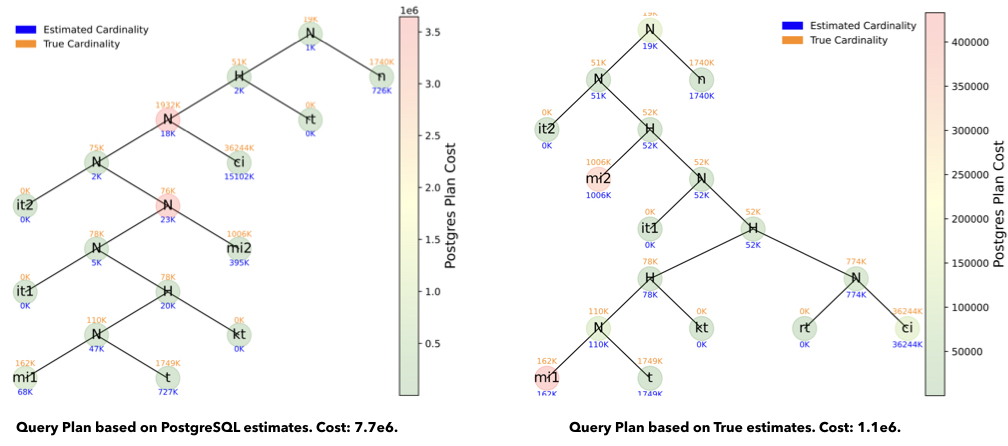
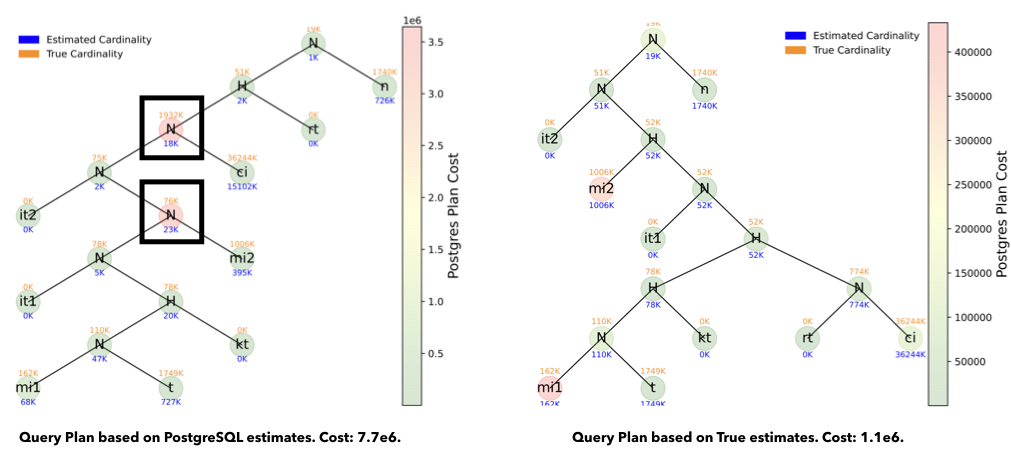
updates to ceb

diff --git a/_posts/2021-09-19-cardinality-estimation-benchmark.md b/_posts/2021-09-19-cardinality-estimation-benchmark.md
@@ -8,7 +8,7 @@ title: "Cardinality Estimation Benchmark"
 
 There has been a lot of interest in using ML for cardinality estimation. The motivating application is often query optimization: when searching for the best execution plan, a query optimizer needs to estimate intermediate result sizes. In the most simplified setting, a better query plan may need to process smaller sized intermediate results, thereby utilizing fewer resources, and executing faster. Several approaches have shown that one can consistently outperform DBMS estimators, often by orders of magnitude in terms of average estimation accuracy. However, improving estimation accuracy may not necessarily improve an optimizer's final query plan, as highlighted in the following simple example[^estimation_plan_quality].
 
-![Plan Cost Intuition](/assets/ceb/CEB-blog-intuition.png)
+![Plan Cost Intuition](/assets/ceb/ceb-blog-intuition.jpeg)
 
 We utilize a novel programmatic templating scheme[^templates] to generate over 15K challenging queries on two databases (IMDb and StackExchange). More crucially, we provide a clean API to evaluate cardinality estimations on all of a query's subplans with respect to their impact on query plans.
 
@@ -22,79 +22,66 @@ The subplan cardinality estimates can be fed into PostgreSQL, which gives us the
 
 ![CEB query plan example](/assets/ceb/1a66-plans.jpeg)
 
-This whole process is automated in the [CEB GitHub repository](https://github.com/learnedsystems/ceb) --- one just needs to provide the subplan estimates. The colorbar goes from green, i.e., cheap nodes (scan or join operators) to expensive nodes. Thus, looking for the red nodes immediately shows us why the estimates messed up: PostgreSQL underestimated cardinalities of two key nodes, and thus, using a nested-loop join was a bad choice --- since the true cardinalities of these nodes were large, and would therefore require a lot more processing. This is a common pattern of PostgreSQL cardinality underestimates resulting in bad plans: in fact, most of the challenging Join Order Benchmark cases fall into this category. But, we also see examples in CEB where PostgreSQL gets a worse plan because of overestimates, for instance consider query 2a61 below.
+This whole process is automated in the [CEB GitHub repository](https://github.com/learnedsystems/ceb) --- one just needs to provide the subplan estimates. Each node is a scan or join operator. The colorbar for the nodes goes from green, i.e., cheap operations to expensive operations. Thus, looking for the red nodes immediately shows us why the estimates messed up: PostgreSQL underestimated cardinalities of two key nodes (highlighted in the left figure), and thus, using a nested-loop join was a bad choice --- since the true cardinalities of these nodes were large, and would therefore require a lot more processing. This is a common pattern of PostgreSQL cardinality underestimates resulting in bad plans. That being said, we also see examples in CEB where PostgreSQL gets a worse plan due to overestimates, and other subtler motifs.
 
-![CEB query plan example2](/assets/ceb/2a61-plans.jpeg)
+<!--But, we also see examples in CEB where PostgreSQL gets a worse plan because of overestimates, for instance consider query 2a61 below.-->
+
+<!--![CEB query plan example2](/assets/ceb/2a61-plans.jpeg)-->
+
+We provide a simple featurization scheme for queries, and data loaders for PyTorch, which we use to train several known supervised learning models in the [CEB repo](http://github.com/learnedsystems/CEB). One of the key results we find is that when the query workload matches the training workload, learned models tend to do very well in terms of query plan performance, but when the workload changes somewhat, the learned models can be surprisingly brittle:
+
+![CEB key result](/assets/ceb/CEB-blog-runtimes.jpeg)
+
+The figure on the left has the training / test set queries split equally on each template (only test set results are shown). We see even the mean of almost 6K queries shows a large gap between PostgreSQL estimates and learned models --- this translates to several hours faster total runtime of the workload. The figure on the right splits training / test queries such that queries from half the templates are in the training set, and the rest are in the test set. Since we have only a few templates, the performance can be very sensitive to the particular seed used to do the split, therefore, we show the results across ten such splits (seeds = 1-10). Observe that there are some extreme splits where the learned model performance can degrade dramatically.
+
+These trends are also reflected when we use Postgres Plan Cost as the evaluation metric:
+
+![CEB key result2](/assets/ceb/CEB-blog-ppc.jpeg)
+
+Computing runtimes is significantly expensive --- and this experiment shows that
+we can often rely on trusting the Plan Cost evaluation metric instead, although
+the exact relationship between the runtimes and the plan costs should be an
+open research problem.
 
 # Why Is This Benchmark Needed?
 
-The [Join Order Benchmark (JOB)](https://github.com/gregrahn/join-order-benchmark) did a great job of highlighting why TPC-style synthetic benchmarks may not be enough for evaluating query optimizers, in particular, the impact of cardinality estimation. While JOB illustrates query optimization challenges, it contains too few queries for a cardinality estimation benchmark. Below table shows key properties of CEB compared to JOB.
+The [Join Order Benchmark (JOB)](https://github.com/gregrahn/join-order-benchmark) did a great job of highlighting why TPC-style synthetic benchmarks may not be enough for evaluating query optimizers, in particular, the impact of cardinality estimation.
+In the [CEB repo](http://github.com/learnedsystems/CEB), we also provide cardinality data for JOB, and other derived workloads, such as [JOB-M](https://github.com/neurocard/neurocard), or [JOB-light](https://github.com/andreaskipf/learnedcardinalities/blob/master/workloads/job-light.sql), so they can be as easily evaluated with the tools described so far.
+However, even though JOB illustrates query optimization challenges, it contains too few queries for a cardinality estimation benchmark suited to the deep learning style models often used today. The table below shows key properties of CEB compared to JOB.
 
+<!--![Benchmarks comparison](/assets/ceb/CEB-benchmark-comparison.jpeg){:height="360px" width="360px"}-->
 
-There are several reasons for a larger benchmark:
+<p align="center">
+  <img width="360" height="360" src="/assets/ceb/CEB-benchmark-comparison.jpeg"
+  />
+</p>
 
-* <b>Supervised learning / Query-driven models.</b> Models, such as [MSCN](https://github.com/andreaskipf/learnedcardinalities), learn based on a representative query workload; workloads with <= 4 queries per template, such as JOB, are not great for training such models. By specializing to the known query patterns, such models can achieve excellent performance without explicitly modeling the data distribution. They can achieve excellent performance at a fraction of the storage / inference costs of any data-driven method (e.g., NeuroCard models for IMDb went to several 100MBs, while MSCN models we used were < 2MB). Query-driven models are also easier to adapt to all types of queries, such as those involving self-joins, LIKE filters, etc.; which are not supported by data-driven models.
+There are several reasons why a larger benchmark is useful. Two critical motivations for us were:
 
-<!-- In addition, recent research on [Fauce](http://pasalabs.org/papers/2021/VLDB21_Fauce.pdf) has shown that query-driven models can outperform data-driven ones even in the restricted case of equality/range predicates in terms of estimation accuracy. Another advantage of query-driven models, as also demonstrated by Fauce, is their ability to provide uncertainty estimates. -->
+* <b>Query-driven models require large training sets. </b>
+Models, such as [MSCN](https://github.com/andreaskipf/learnedcardinalities), [Fully Connected Neural Nets (FCNN) / XGBoost](https://dl.acm.org/doi/10.14778/3329772.3329780), or [Fauce](http://pasalabs.org/papers/2021/VLDB21_Fauce.pdf) learn from representative workloads.
+Therefore, having <= 4 queries per template, such as in JOB, is not great for training such models.
+Note that there are no shortage of representative SQL queries in industry settings --- thus, the potential benefits of query driven approaches make it a compelling use case to study.
+Under appropriate circumstances, benefits over data driven models include: significantly smaller sizes (e.g., [Neurocard](https://arxiv.org/abs/2006.08109) models for a restricted subset of IMDb takes 100s of MBs, while MSCN style models are < 2MB), flexibility to support all kinds of queries (e.g., self-joins or regex filters), [uncertainty estimates (Fauce)](http://pasalabs.org/papers/2021/VLDB21_Fauce.pdf), incorporating runtime information as features --- such as estimates from heuristic estimators (proposed [here](https://dl.acm.org/doi/10.14778/3329772.3329780)), sampling (e.g., see sample bitmaps proposed in [MSCN](https://arxiv.org/abs/1809.00677)).
 
-* <b>Deep learning models, and edge cases.</b>
+* <b>Gaining confidence in deep learning models through rich execution scenarios and edge cases.</b>
 For traditional cardinality estimation models, which were based on analytical formulas, we could be confident of their functioning, including shortcomings, based on intuitive analysis. A lot of the newer models are based on deep learning based black box techniques. Even when a model does well on a particular task --- it does not guarantee that it will have a predictably good performance in another scenario. At the same time, there is a promise of huge performance improvements. One way to gain confidence in these models is to show that they work well across significantly different, and challenging scenarios. Thus, the techniques used for developing CEB aim to create queries with a lot of edge cases, and challenges, which should be useful to study when these models work well, and when they don't. This should let us study their performance in various contexts --- changing workloads, changing data, different training set sizes, changing model parameters, and so on.
 
-<!--But, these models are essentially complex black boxes, and a lot-->
-<!--remains to be studied about when we can be confident in their predictions.  But, with deep learning based models, it is hard-->
-  <!--to predict when things may go wrong. Therefore, we require, large, diverse-->
-  <!--workloads, full of edge cases which may help us to identify thwe weakenesses-->
-  <!--of such models, so that we may be able to devise methods to solve them, and-->
-  <!--therefore, gain confidence in them.-->
+<!--# Learned Models-->
 
-<!--We also provide other commonly used datasets, such as JOB, JOB-M, JOB-light,-->
-   <!--and their cardinalities + in the same format. Why is new needed. JOB-light-->
-   <!--example; JOB-M and JOB are more challenging, BUT: ; In particular, most of-->
-   <!--these queries run quite fast on PostgreSQL + indexes ---- link to our paper;-->
-   <!--Another new benchmark --- link ziniu --- was published last week, with similar-->
-   <!--motivations; Moreover, they find Postgres Plan Cost as a useful metric to-->
-   <!--evaluate the queries as well.-->
-
-<!--Traditional models have well defined assumptions, like column independence. Therefore, their errors are also well understood, and approaches.-->
-
-<!--Redundancy *good*. Provide smaller subset of queries as well. Not done enough-->
-<!--analysis to know if we really need these many queries etc., or what is a good-->
-<!--subset. Certainly, for initial evaluations, you should not use the whole workload at once.-->
-
-<!--For instance, as we show in X, as query distributions vary, the estimation accuracy of thee models can still be significantly better than DBMS heuristics, but its query performance can get unpredictably worse. Other recent work Y also shows how these models can have drastically varying performance as you update the data, or change the query templates, and so on.-->
-
-<!--In order for such models to get practical acceptance, we need to understand when their estimates are unreliable, and how these impact query plans. To do this, we introduce easily usable tools to evaluate the impact of cardinality estimates on query optimization.-->
-
-<!--A standard way to evaluate cardinality estimation models is Q-Error.-->
-
-
-<!--Given the cardinality estimates for all of a query’s subplans, we can then ask how good is the query plan that would be generated by a DBMS using these. In Figure X, we show the query plan for one query using the estimates of PostgreSQL; Along with the plan, for every node we also show the true value and the estimate (rounded to the nearest thousand). This gives us an insight into the thinking of the optimizer behind choosing the given plan.-->
-
-<!--In Figure Y, we see what would be the plan chosen by the optimizer given true cardinalities. This lets us better analyze how the cardinality mis-estimates impact the optimizer.-->
-
-<!--These plots are automatically generated with each run.-->
-
-<!--Why do we need more queries?-->
-
-<!--Traditional, histogram based models are well understood, so we can be reasonably sure of their behavior, including their drawbacks, after seeing their performance on a limited set of queries. For instance, JOB served as a great benchmark to highlight the edge cases that can cause significant query performance degradation.-->
-
-<!--But, with increasingly more complex ML models, it is less clear how to analyze them. We generate a lot of queries in a pseudo-random fashion to maximize the chances of generating edge cases that can trip up these models in surprising ways; thus while the average query in the CEB workload may not be very challenging to optimize, it will have several of these edge cases, and we notice this by observing how the 99th percentile runtimes get significantly slower across the board.-->
-
-# Learned Models
-
-We provide a simple featurization scheme for queries, and data loaders for PyTorch, which we use to train several known supervised learning models in the [CEB repo](http://github.com/learnedsystems/CEB). Based on our formulation, and importance, of the Plan Costs, we derived a differentiable loss function that can be a drop in replacement for Q-Error to train neural networks, called Flow-Loss. It is evaluated in detail the paper [here](http://vldb.org/pvldb/vol14/p2019-negi.pdf), and we will discuss it further in a future blog post.
+<!--Based on our formulation, and importance, of the Plan Costs, we derived a differentiable loss function that can be a drop in replacement for Q-Error to train neural networks, called Flow-Loss. It is evaluated in detail the paper [here](http://vldb.org/pvldb/vol14/p2019-negi.pdf), and we will discuss it further in a future blog post.-->
 
 # Next Steps
 
-We would love you to contribute to further developing CEB, or explore research questions around it. Here are a few ideas:
+We would love to get your contributions to further developing CEB, or exploring research questions using it. Here are a few ideas:
 
 * <b>Adding more DBs, and query workloads.</b> There are a lot of learned models for cardinality estimation, and very few challenging evaluation scenarios. Thus, it is hard to compare these methods, and to reliably distinguish between the strengths and weaknesses of these approaches. There are two steps to expanding on the evaluation scenarios in CEB. First, we need new databases --- for instance, if you have an interesting real-world database in PostgreSQL, then providing a pgdump for it should allow us to easily integrate it into CEB. We provide IMDb and StackExchange, and plan to add a couple of others in the future. Secondly, once we have a new database, we require query workloads for those. We have provided some tools for automated query generation, but at its core, all such methods would require some representative queries thought through by people familiar with the schema. This is the most challenging step for expanding such benchmarks, and we hope that open sourcing these tools can bring people together to collectively build larger workloads.
 
-* <b>Limits of the learning models.</b> The paper, [Are We Ready For Learned Cardinality Estimation?](http://vldb.org/pvldb/vol14/p1640-wang.pdf) won a Best Paper award in VLDB 2021. They ask several important questions about learned cardinality estimation models, but their experiments are restricted to single table estimations, i.e., without joins. CEB should provide the tools to ask similar questions in the more complex, query optimization use case of these estimators.
+* <b>Limits of the learning models.</b> The paper [Are We Ready For Learned Cardinality Estimation?](http://vldb.org/pvldb/vol14/p1640-wang.pdf) won a Best Paper award in VLDB 2021. They ask several important questions about learned cardinality estimation models, but their experiments are restricted to single table estimations, i.e., without joins. CEB should provide the tools to ask similar questions in the more complex, query optimization use case of these estimators.
 
 <!--* <b> Analyzing the space of optimal plans. </b> How often are different operators used, how many interesting plans are there, space of plans etc. similar to picasso etc.-->
 
-* <b>Data-driven models.</b> Comparing unsupervised learning models (e.g., [NeuroCard](https://github.com/neurocard/neurocard), [DeepDB](https://github.com/DataManagementLab/deepdb-public), [Fauce](http://pasalabs.org/papers/2021/VLDB21_Fauce.pdf), [BayesCard](https://arxiv.org/abs/2012.14743)) with the supervised learning models. Some of these approaches are harder to adapt to our full set of queries --- it involves modeling self joins, regex queries, and so on. Working to extend the data-driven approaches to these common use cases should be interesting. But we also have also converted other simpler query workloads, like JOB-M as used in NeuroCard, to our format, and provide scripts to run them and generate the plan costs etc.
+* <b>Data-driven models.</b> Comparing unsupervised learning models (e.g., [NeuroCard](https://github.com/neurocard/neurocard), [DeepDB](https://github.com/DataManagementLab/deepdb-public), [BayesCard](https://arxiv.org/abs/2012.14743)) with the supervised learning models. Some of these approaches are harder to adapt to our full set of queries --- it involves modeling self joins, regex queries, and so on. Working to extend the data-driven approaches to these common use cases should be interesting. But we also have also converted other simpler query workloads, like JOB-M as used in NeuroCard, to our format, and provide scripts to run them and generate the plan costs etc.
 * <b>Different execution environments.</b> In the [Flow-Loss paper](http://vldb.org/pvldb/vol14/p2019-negi.pdf), we mainly focused on one particular execution scenario: single-threaded execution on NVMe hard drives, which ensured minimum additional noise and variance. We have explored executing these queries in other scenarios, and we notice the runtime latencies fluctuate wildly. For instance, when executing on AWS EB2 storage, even the same query plan latencies can fluctuate due to the I/O bursts. On slower SATA hard disks, we find all the query plans get significantly slower, thus potentially causing many more challenging scenarios for the cardinality estimators. Similar effects are seen when we don't use indexes. These effects can also be somewhat modeled by different configuration settings --- which would allow Postgres Plan Cost to serve as a viable proxy for latencies in these situations. These queries, and evaluation framework, provide many interesting opportunities to analyze these impacts.
 
 * <b>Alternative approaches to cardinality estimation.</b> Another interesting line of research suggests that query optimizers should not need to rely on precise cardinality estimates when searching for the best plan. This includes [plan bouquets](https://dl.acm.org/doi/10.1145/2588555.2588566), [pessimistic query optimization](https://waltercai.github.io/assets/pessimistic-query-optimization.pdf), [robust query optimization](http://www.vldb.org/pvldb/vol11/p1360-wolf.pdf), and so on. For instance, pessimistic QO approaches have done quite well on JOB. It is interesting to see if they can do equally well on a larger workload, potentially with more edge cases, such as CEB.
